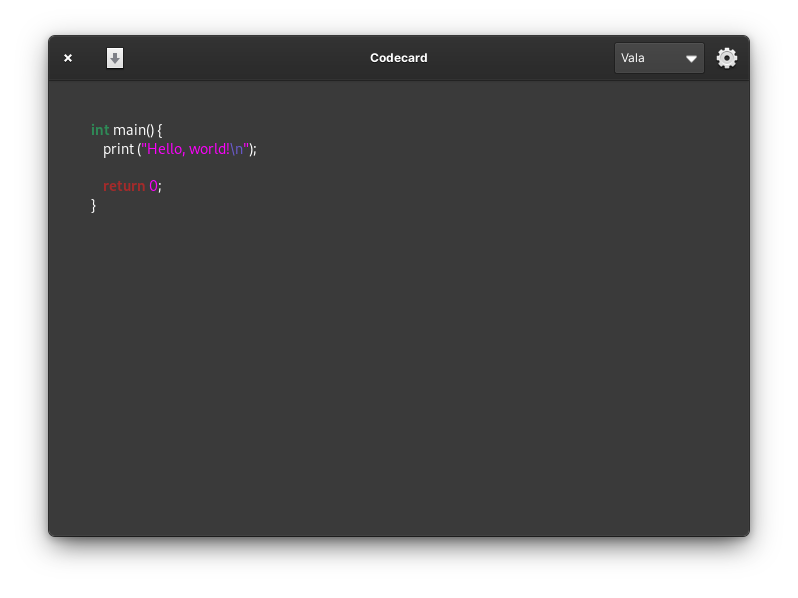
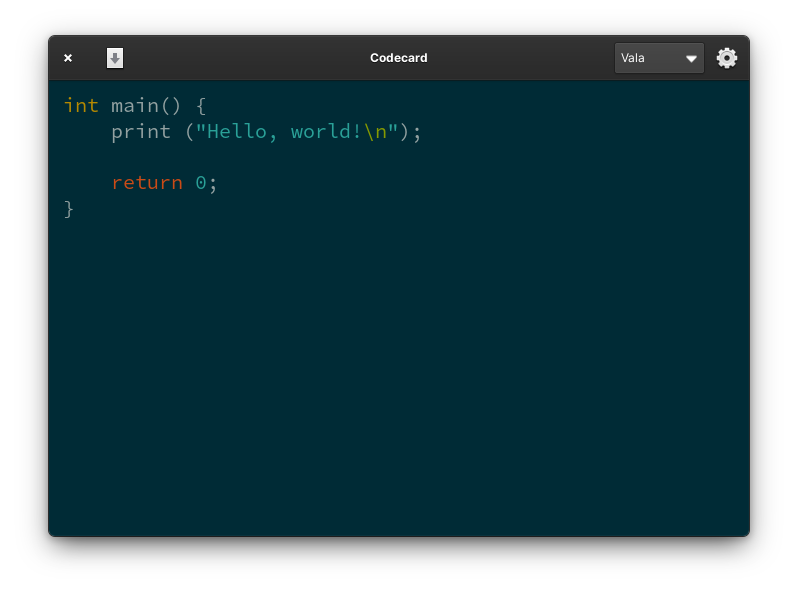
Release version 1.1.0 (#15)
* meson: Update version

* AppData: Release 1.1.0

* Update screenshots

diff --git a/README.md b/README.md
@@ -33,6 +33,14 @@
         <img src="data/screenshots/000-dark.png">
       </td>
     </tr>
+    <tr>
+      <td>
+        <img src="data/screenshots/001.png">
+      </td>
+      <td>
+        <img src="data/screenshots/001-dark.png">
+      </td>
+    </tr>
   </table>
 </p>
 
